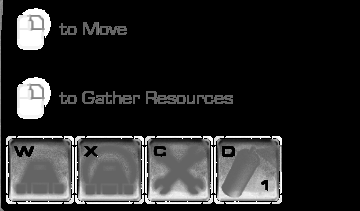
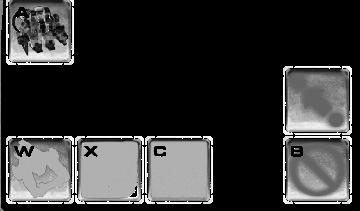
way better mineral segmentation

diff --git a/camera_view_processor.py b/camera_view_processor.py
@@ -15,12 +15,18 @@ current_dir = str(pathlib.Path(__file__).parent.absolute()) + "\\camera_view_pro
 
 def mineral_patches_handle(img, patches, debug = False):
     left = np.array([95, 32, 14])
-    right = np.array([255, 103, 68])
-    patch = cv2.inRange(img, left, right)
+    right = np.array([255, 110, 68])
+    color_patch = cv2.inRange(img, left, right)
+    hsv = cv2.cvtColor(img, cv2.COLOR_BGR2HSV)
+    hsv = hsv[:, :, 1]
+    hsv = cv2.inRange(hsv, 200, 255)
+    patch = cv2.bitwise_and(hsv, color_patch)
     kernel = np.ones((13, 13), np.uint8)
     patch = cv2.dilate(patch, kernel)
     if debug:
-        cv2.imwrite(current_dir + "mineral_patches_dilate.png", patch)
+        cv2.imwrite(current_dir + "mineral_patches_bitwise_and.png", patch)
+        cv2.imwrite(current_dir + "mineral_patches_hsv.png", hsv)
+        cv2.imwrite(current_dir + "mineral_patches_color.png", color_patch)
     kernel = np.ones((21, 21), np.uint8)
     patch = cv2.erode(patch, kernel)
     if debug:

diff --git a/UI_processor.py b/UI_processor.py
@@ -130,7 +130,7 @@ def img_to_letters(img):
         if stats[i][cv2.CC_STAT_HEIGHT] < 5: # removing small components which are certainly i dots
             continue
         new_cropped = img[:, (stats[i][cv2.CC_STAT_LEFT] - 1):(stats[i][cv2.CC_STAT_LEFT] + stats[i][cv2.CC_STAT_WIDTH] + 1)]
-        cropped.append((centroids[i][0], cv2.copyMakeBorder(new_cropped, top=12, bottom=12, left=16, right=16, borderType=cv2.BORDER_CONSTANT, value=0)))
+        cropped.append((centroids[i][0], cv2.copyMakeBorder(new_cropped, top=14, bottom=14, left=18, right=18, borderType=cv2.BORDER_CONSTANT, value=0)))
     cropped.sort()
 
     # loading templates

diff --git a/README.md b/README.md
@@ -1,7 +1,7 @@
 # SC2 image processing API
 In progress starcraft 2 image processing api to extract data from live sc2 1v1 games as terran.
 
-![Presentation](./readme_images/presentation.png?raw=true "Presentation")
+![Presentation](./docs/readme_images/presentation.png?raw=true "Presentation")
 
 # The idea behind the project
 This api should be able to provide meaningful information in the objective of building a bot afterwards.
@@ -28,4 +28,4 @@ This code expects to screenshot a usual 1v1 game against a human or an AI. The m
 This is currently being made for sc2 on a 1920x1080 screen. This is required since the program uses screenshots. I noticed that playing against no one in a custom match changes the minerals / gas / supply info position on the top right hand corner, which breaks the program. This could be supported later.
 This code was only tested with terrans so far and will require modifications if you want to use other races since for example the gas icon is different for zergs and will not be detected by this code.
 
-![Recommendations](./readme_images/recommended_colors_and_graphics.png?raw=true "Recommendations")
+![Recommendations](./docs/readme_images/recommended_colors_and_graphics.png?raw=true "Recommendations")
